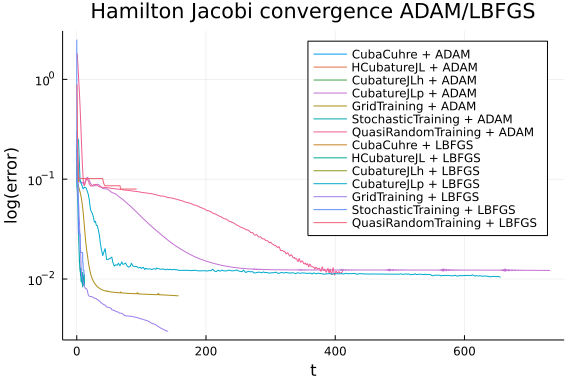
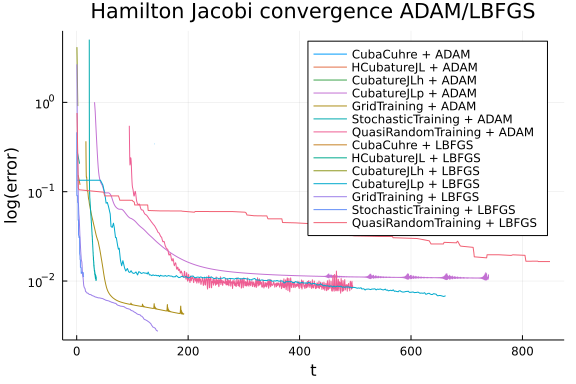
Automatic build\nPublished by build of: https://github.com/SciML/SciMLBenchmarks.jl/commit/61c047455ef7845709acad38f267d75462b74631

diff --git a/markdown/PINNErrorsVsTime/hamilton_jacobi_et.md b/markdown/PINNErrorsVsTime/hamilton_jacobi_et.md
@@ -87,7 +87,7 @@ function hamilton_jacobi(strategy, minimizer, maxIters)
     ## NEURAL NETWORK
     n = 10   #neuron number
 
-    chain = Lux.Chain(Lux.Dense(5, n, Lux.σ), Lux.Dense(n, n, Lux.σ), Lux.Dense(n, 1))   #Neural network from OptimizationFlux library
+    chain = Lux.Chain(Lux.Dense(5, n, tanh), Lux.Dense(n, n, tanh), Lux.Dense(n, 1))   #Neural network from OptimizationFlux library
 
     indvars = [t, x1, x2, x3, x4]   #phisically independent variables
     depvars = [u(t, x1, x2, x3, x4)]       #dependent (target) variable
@@ -271,7 +271,7 @@ Environment:
 Package Information:
 
 ```
-      Status `/cache/build/exclusive-amdci1-0/julialang/scimlbenchmarks-dot-jl/benchmarks/PINNErrorsVsTime/Project.toml`
+      Status `/cache/build/exclusive-amdci3-0/julialang/scimlbenchmarks-dot-jl/benchmarks/PINNErrorsVsTime/Project.toml`
   [de52edbc] Integrals v3.1.1
   [e00cd5f1] IntegralsCuba v0.2.0
   [c31f79ba] IntegralsCubature v0.2.0
@@ -290,7 +290,7 @@ Package Information:
 And the full manifest:
 
 ```
-      Status `/cache/build/exclusive-amdci1-0/julialang/scimlbenchmarks-dot-jl/benchmarks/PINNErrorsVsTime/Manifest.toml`
+      Status `/cache/build/exclusive-amdci3-0/julialang/scimlbenchmarks-dot-jl/benchmarks/PINNErrorsVsTime/Manifest.toml`
   [c3fe647b] AbstractAlgebra v0.27.2
   [621f4979] AbstractFFTs v1.2.1
   [1520ce14] AbstractTrees v0.4.2
